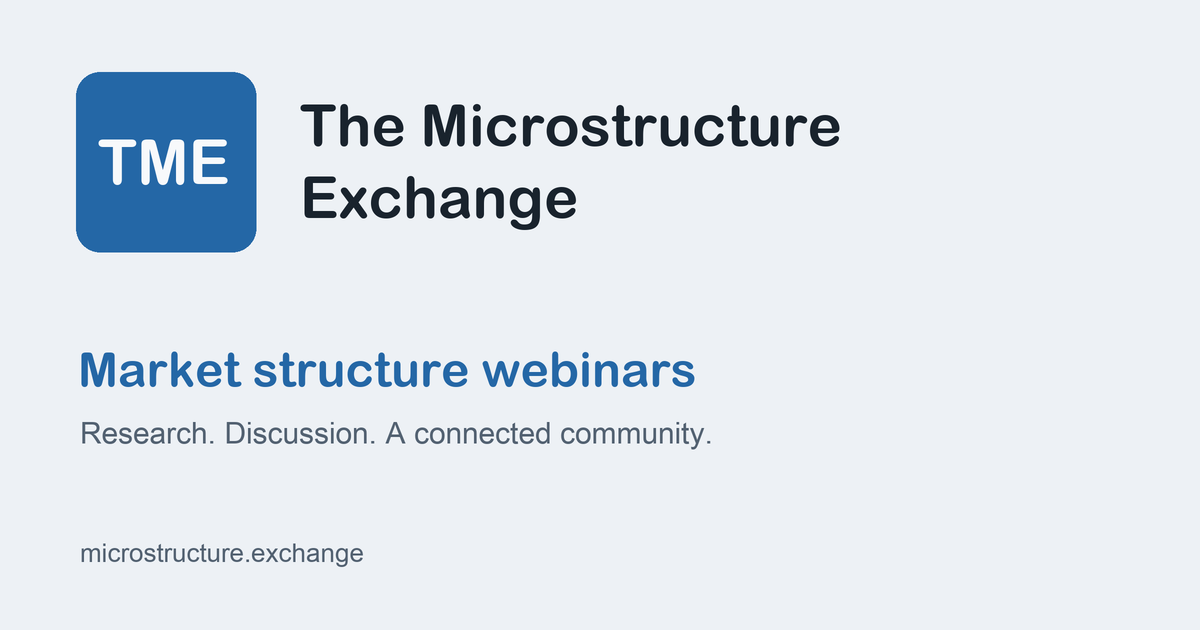
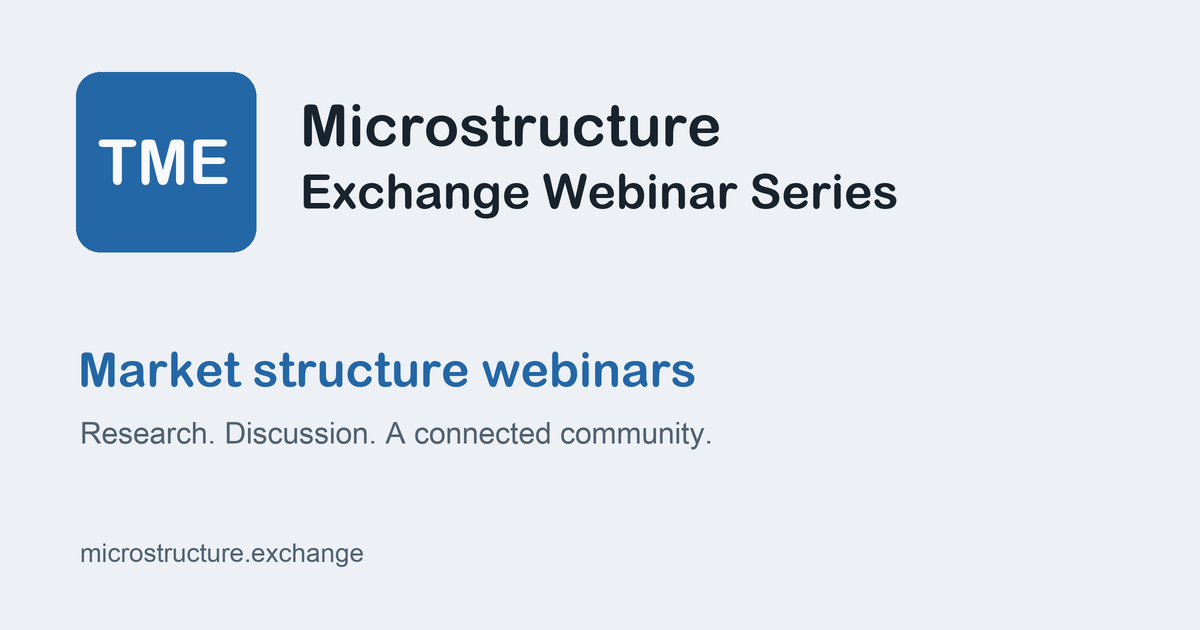
Clarify webinar series branding on sharing cards

Changed region(s): [[0.2467, 0.2714, 0.7708, 0.3619], [0.2467, 0.1508, 0.7092, 0.2413]]

diff --git a/talks/2026-09-29.html b/talks/2026-09-29.html
@@ -5,7 +5,7 @@
 <meta property="og:title" content="Fayçal Drissi | TME | The Viability of Blockchain Markets under Discrete Clearing and Paid Priority">
 <meta property="og:description" content="September 29, 2026 at 11:00 AM EDT. The Viability of Blockchain Markets under Discrete Clearing and Paid Priority. Authors: Fayçal Drissi; Agostino Capponi; Alvaro Cartea. The Microstructure Exchange.">
 <meta property="og:url" content="https://microstructure.exchange/talks/2026-09-29">
-<meta property="og:image" content="https://microstructure.exchange/talks/2026-09-29-d12fa49050.png">
+<meta property="og:image" content="https://microstructure.exchange/talks/2026-09-29-bc0784de2c.png">
 <meta property="og:image:width" content="1200">
 <meta property="og:image:height" content="630">
 <meta property="og:image:type" content="image/png">
@@ -13,7 +13,7 @@
 <meta name="twitter:card" content="summary_large_image">
 <meta name="twitter:title" content="Fayçal Drissi | TME | The Viability of Blockchain Markets under Discrete Clearing and Paid Priority">
 <meta name="twitter:description" content="September 29, 2026 at 11:00 AM EDT. The Viability of Blockchain Markets under Discrete Clearing and Paid Priority. Authors: Fayçal Drissi; Agostino Capponi; Alvaro Cartea. The Microstructure Exchange.">
-<meta name="twitter:image" content="https://microstructure.exchange/talks/2026-09-29-d12fa49050.png">
+<meta name="twitter:image" content="https://microstructure.exchange/talks/2026-09-29-bc0784de2c.png">
 <meta name="twitter:image:alt" content="Fayçal Drissi: The Viability of Blockchain Markets under Discrete Clearing and Paid Priority. September 29, 2026 at 11:00 AM EDT.">
       <link rel="icon" href="/favicon.svg" type="image/svg+xml"><link rel="stylesheet" href="/site.css">
       <link href="https://fonts.googleapis.com/css2?family=Nunito+Sans:wght@300;400;500;600;700;800&amp;display=swap" rel="stylesheet">

diff --git a/talks/2026-10-27.html b/talks/2026-10-27.html
@@ -5,7 +5,7 @@
 <meta property="og:title" content="Vincent Grégoire | TME | Who Wins and Who Loses in Prediction Markets: Evidence from Polymarket">
 <meta property="og:description" content="October 27, 2026 at 11:00 AM EDT. Who Wins and Who Loses in Prediction Markets: Evidence from Polymarket. Authors: Vincent Grégoire; Charles Martineau; Pat Akey; Nicolas Harvie. The Microstructure Exchange.">
 <meta property="og:url" content="https://microstructure.exchange/talks/2026-10-27">
-<meta property="og:image" content="https://microstructure.exchange/talks/2026-10-27-93449a0af7.png">
+<meta property="og:image" content="https://microstructure.exchange/talks/2026-10-27-deae53c74b.png">
 <meta property="og:image:width" content="1200">
 <meta property="og:image:height" content="630">
 <meta property="og:image:type" content="image/png">
@@ -13,7 +13,7 @@
 <meta name="twitter:card" content="summary_large_image">
 <meta name="twitter:title" content="Vincent Grégoire | TME | Who Wins and Who Loses in Prediction Markets: Evidence from Polymarket">
 <meta name="twitter:description" content="October 27, 2026 at 11:00 AM EDT. Who Wins and Who Loses in Prediction Markets: Evidence from Polymarket. Authors: Vincent Grégoire; Charles Martineau; Pat Akey; Nicolas Harvie. The Microstructure Exchange.">
-<meta name="twitter:image" content="https://microstructure.exchange/talks/2026-10-27-93449a0af7.png">
+<meta name="twitter:image" content="https://microstructure.exchange/talks/2026-10-27-deae53c74b.png">
 <meta name="twitter:image:alt" content="Vincent Grégoire: Who Wins and Who Loses in Prediction Markets: Evidence from Polymarket. October 27, 2026 at 11:00 AM EDT.">
       <link rel="icon" href="/favicon.svg" type="image/svg+xml"><link rel="stylesheet" href="/site.css">
       <link href="https://fonts.googleapis.com/css2?family=Nunito+Sans:wght@300;400;500;600;700;800&amp;display=swap" rel="stylesheet">

diff --git a/talks/2026-11-24.html b/talks/2026-11-24.html
@@ -5,7 +5,7 @@
 <meta property="og:title" content="Albert Menkveld | TME | Does News Trading Crowd Out Value Trading? Evidence from a Structural Estimation">
 <meta property="og:description" content="November 24, 2026 at 11:00 AM EST. Does News Trading Crowd Out Value Trading? Evidence from a Structural Estimation. Authors: Albert J. Menkveld; Lucas Saru. The Microstructure Exchange.">
 <meta property="og:url" content="https://microstructure.exchange/talks/2026-11-24">
-<meta property="og:image" content="https://microstructure.exchange/talks/2026-11-24-bc96979f96.png">
+<meta property="og:image" content="https://microstructure.exchange/talks/2026-11-24-442f5807b1.png">
 <meta property="og:image:width" content="1200">
 <meta property="og:image:height" content="630">
 <meta property="og:image:type" content="image/png">
@@ -13,7 +13,7 @@
 <meta name="twitter:card" content="summary_large_image">
 <meta name="twitter:title" content="Albert Menkveld | TME | Does News Trading Crowd Out Value Trading? Evidence from a Structural Estimation">
 <meta name="twitter:description" content="November 24, 2026 at 11:00 AM EST. Does News Trading Crowd Out Value Trading? Evidence from a Structural Estimation. Authors: Albert J. Menkveld; Lucas Saru. The Microstructure Exchange.">
-<meta name="twitter:image" content="https://microstructure.exchange/talks/2026-11-24-bc96979f96.png">
+<meta name="twitter:image" content="https://microstructure.exchange/talks/2026-11-24-442f5807b1.png">
 <meta name="twitter:image:alt" content="Albert Menkveld: Does News Trading Crowd Out Value Trading? Evidence from a Structural Estimation. November 24, 2026 at 11:00 AM EST.">
       <link rel="icon" href="/favicon.svg" type="image/svg+xml"><link rel="stylesheet" href="/site.css">
       <link href="https://fonts.googleapis.com/css2?family=Nunito+Sans:wght@300;400;500;600;700;800&amp;display=swap" rel="stylesheet">

diff --git a/talks/2026-10-13.html b/talks/2026-10-13.html
@@ -5,7 +5,7 @@
 <meta property="og:title" content="Luca Galati | TME | Not Dead Yet: Options Trading Floors">
 <meta property="og:description" content="October 13, 2026 at 11:00 AM EDT. Not Dead Yet: Options Trading Floors. Authors: Luca Galati; Terrence Hendershott; Saad Ali Khan; Ryan Riordan. The Microstructure Exchange.">
 <meta property="og:url" content="https://microstructure.exchange/talks/2026-10-13">
-<meta property="og:image" content="https://microstructure.exchange/talks/2026-10-13-e63abc8ef9.png">
+<meta property="og:image" content="https://microstructure.exchange/talks/2026-10-13-fc6998d5d2.png">
 <meta property="og:image:width" content="1200">
 <meta property="og:image:height" content="630">
 <meta property="og:image:type" content="image/png">
@@ -13,7 +13,7 @@
 <meta name="twitter:card" content="summary_large_image">
 <meta name="twitter:title" content="Luca Galati | TME | Not Dead Yet: Options Trading Floors">
 <meta name="twitter:description" content="October 13, 2026 at 11:00 AM EDT. Not Dead Yet: Options Trading Floors. Authors: Luca Galati; Terrence Hendershott; Saad Ali Khan; Ryan Riordan. The Microstructure Exchange.">
-<meta name="twitter:image" content="https://microstructure.exchange/talks/2026-10-13-e63abc8ef9.png">
+<meta name="twitter:image" content="https://microstructure.exchange/talks/2026-10-13-fc6998d5d2.png">
 <meta name="twitter:image:alt" content="Luca Galati: Not Dead Yet: Options Trading Floors. October 13, 2026 at 11:00 AM EDT.">
       <link rel="icon" href="/favicon.svg" type="image/svg+xml"><link rel="stylesheet" href="/site.css">
       <link href="https://fonts.googleapis.com/css2?family=Nunito+Sans:wght@300;400;500;600;700;800&amp;display=swap" rel="stylesheet">

diff --git a/talks/2026-09-15.html b/talks/2026-09-15.html
@@ -5,7 +5,7 @@
 <meta property="og:title" content="Farshid Abdi | TME | Overnight Corporate Bond Trading">
 <meta property="og:description" content="September 15, 2026 at 11:00 AM EDT. Overnight Corporate Bond Trading. Authors: Farshid Abdi; Marco Rossi; Botao Wu. The Microstructure Exchange.">
 <meta property="og:url" content="https://microstructure.exchange/talks/2026-09-15">
-<meta property="og:image" content="https://microstructure.exchange/talks/2026-09-15-1db8ab5b47.png">
+<meta property="og:image" content="https://microstructure.exchange/talks/2026-09-15-4df35067e4.png">
 <meta property="og:image:width" content="1200">
 <meta property="og:image:height" content="630">
 <meta property="og:image:type" content="image/png">
@@ -13,7 +13,7 @@
 <meta name="twitter:card" content="summary_large_image">
 <meta name="twitter:title" content="Farshid Abdi | TME | Overnight Corporate Bond Trading">
 <meta name="twitter:description" content="September 15, 2026 at 11:00 AM EDT. Overnight Corporate Bond Trading. Authors: Farshid Abdi; Marco Rossi; Botao Wu. The Microstructure Exchange.">
-<meta name="twitter:image" content="https://microstructure.exchange/talks/2026-09-15-1db8ab5b47.png">
+<meta name="twitter:image" content="https://microstructure.exchange/talks/2026-09-15-4df35067e4.png">
 <meta name="twitter:image:alt" content="Farshid Abdi: Overnight Corporate Bond Trading. September 15, 2026 at 11:00 AM EDT.">
       <link rel="icon" href="/favicon.svg" type="image/svg+xml"><link rel="stylesheet" href="/site.css">
       <link href="https://fonts.googleapis.com/css2?family=Nunito+Sans:wght@300;400;500;600;700;800&amp;display=swap" rel="stylesheet">

diff --git a/talks/2026-12-08.html b/talks/2026-12-08.html
@@ -5,7 +5,7 @@
 <meta property="og:title" content="Chaojun Wang | TME | Shadow Discounts">
 <meta property="og:description" content="December 8, 2026 at 11:00 AM EST. Shadow Discounts. Authors: Chaojun Wang; Tomy Lee; Isacco Lotti; Florian Nagler; Giorgio Ottonello. The Microstructure Exchange.">
 <meta property="og:url" content="https://microstructure.exchange/talks/2026-12-08">
-<meta property="og:image" content="https://microstructure.exchange/talks/2026-12-08-7de8e31812.png">
+<meta property="og:image" content="https://microstructure.exchange/talks/2026-12-08-bb2975d2ec.png">
 <meta property="og:image:width" content="1200">
 <meta property="og:image:height" content="630">
 <meta property="og:image:type" content="image/png">
@@ -13,7 +13,7 @@
 <meta name="twitter:card" content="summary_large_image">
 <meta name="twitter:title" content="Chaojun Wang | TME | Shadow Discounts">
 <meta name="twitter:description" content="December 8, 2026 at 11:00 AM EST. Shadow Discounts. Authors: Chaojun Wang; Tomy Lee; Isacco Lotti; Florian Nagler; Giorgio Ottonello. The Microstructure Exchange.">
-<meta name="twitter:image" content="https://microstructure.exchange/talks/2026-12-08-7de8e31812.png">
+<meta name="twitter:image" content="https://microstructure.exchange/talks/2026-12-08-bb2975d2ec.png">
 <meta name="twitter:image:alt" content="Chaojun Wang: Shadow Discounts. December 8, 2026 at 11:00 AM EST.">
       <link rel="icon" href="/favicon.svg" type="image/svg+xml"><link rel="stylesheet" href="/site.css">
       <link href="https://fonts.googleapis.com/css2?family=Nunito+Sans:wght@300;400;500;600;700;800&amp;display=swap" rel="stylesheet">

diff --git a/talks/2026-11-10.html b/talks/2026-11-10.html
@@ -5,7 +5,7 @@
 <meta property="og:title" content="Thierry Foucault | TME | The Price of Exchange Data">
 <meta property="og:description" content="November 10, 2026 at 11:00 AM EST. The Price of Exchange Data. Authors: Thierry Foucault; Vincent Maurin. The Microstructure Exchange.">
 <meta property="og:url" content="https://microstructure.exchange/talks/2026-11-10">
-<meta property="og:image" content="https://microstructure.exchange/talks/2026-11-10-0d950bef68.png">
+<meta property="og:image" content="https://microstructure.exchange/talks/2026-11-10-38ae9f6243.png">
 <meta property="og:image:width" content="1200">
 <meta property="og:image:height" content="630">
 <meta property="og:image:type" content="image/png">
@@ -13,7 +13,7 @@
 <meta name="twitter:card" content="summary_large_image">
 <meta name="twitter:title" content="Thierry Foucault | TME | The Price of Exchange Data">
 <meta name="twitter:description" content="November 10, 2026 at 11:00 AM EST. The Price of Exchange Data. Authors: Thierry Foucault; Vincent Maurin. The Microstructure Exchange.">
-<meta name="twitter:image" content="https://microstructure.exchange/talks/2026-11-10-0d950bef68.png">
+<meta name="twitter:image" content="https://microstructure.exchange/talks/2026-11-10-38ae9f6243.png">
 <meta name="twitter:image:alt" content="Thierry Foucault: The Price of Exchange Data. November 10, 2026 at 11:00 AM EST.">
       <link rel="icon" href="/favicon.svg" type="image/svg+xml"><link rel="stylesheet" href="/site.css">
       <link href="https://fonts.googleapis.com/css2?family=Nunito+Sans:wght@300;400;500;600;700;800&amp;display=swap" rel="stylesheet">

diff --git a/past-talks.html b/past-talks.html
@@ -16,12 +16,12 @@
   <meta property="og:image:type" content="image/png">
   <meta property="og:image:width" content="1200">
   <meta property="og:image:height" content="630">
-  <meta property="og:image:alt" content="TME — The Microstructure Exchange. Market structure webinars.">
+  <meta property="og:image:alt" content="TME — Microstructure Exchange Webinar Series. Market structure webinars.">
   <meta name="twitter:card" content="summary_large_image">
   <meta name="twitter:title" content="Past Talks | The Microstructure Exchange">
   <meta name="twitter:description" content="Past TME webinar talks with papers, recordings, and slides where available.">
   <meta name="twitter:image" content="https://microstructure.exchange/social-preview.png">
-  <meta name="twitter:image:alt" content="TME — The Microstructure Exchange. Market structure webinars.">
+  <meta name="twitter:image:alt" content="TME — Microstructure Exchange Webinar Series. Market structure webinars.">
   <!-- End social preview -->
   <link rel="preconnect" href="https://fonts.googleapis.com">
   <link rel="preconnect" href="https://fonts.gstatic.com" crossorigin>

diff --git a/award.html b/award.html
@@ -16,12 +16,12 @@
   <meta property="og:image:type" content="image/png">
   <meta property="og:image:width" content="1200">
   <meta property="og:image:height" content="630">
-  <meta property="og:image:alt" content="TME — The Microstructure Exchange. Market structure webinars.">
+  <meta property="og:image:alt" content="TME — Microstructure Exchange Webinar Series. Market structure webinars.">
   <meta name="twitter:card" content="summary_large_image">
   <meta name="twitter:title" content="WRDS-TME Prize | The Microstructure Exchange">
   <meta name="twitter:description" content="Best paper award information for The Microstructure Exchange.">
   <meta name="twitter:image" content="https://microstructure.exchange/social-preview.png">
-  <meta name="twitter:image:alt" content="TME — The Microstructure Exchange. Market structure webinars.">
+  <meta name="twitter:image:alt" content="TME — Microstructure Exchange Webinar Series. Market structure webinars.">
   <!-- End social preview -->
   <link rel="preconnect" href="https://fonts.googleapis.com">
   <link rel="preconnect" href="https://fonts.gstatic.com" crossorigin>

diff --git a/index.html b/index.html
@@ -16,12 +16,12 @@
   <meta property="og:image:type" content="image/png">
   <meta property="og:image:width" content="1200">
   <meta property="og:image:height" content="630">
-  <meta property="og:image:alt" content="TME — The Microstructure Exchange. Market structure webinars.">
+  <meta property="og:image:alt" content="TME — Microstructure Exchange Webinar Series. Market structure webinars.">
   <meta name="twitter:card" content="summary_large_image">
   <meta name="twitter:title" content="The Microstructure Exchange">
   <meta name="twitter:description" content="A virtual academic webinar series for market microstructure research.">
   <meta name="twitter:image" content="https://microstructure.exchange/social-preview.png">
-  <meta name="twitter:image:alt" content="TME — The Microstructure Exchange. Market structure webinars.">
+  <meta name="twitter:image:alt" content="TME — Microstructure Exchange Webinar Series. Market structure webinars.">
   <!-- End social preview -->
   <link rel="preconnect" href="https://fonts.googleapis.com">
   <link rel="preconnect" href="https://fonts.gstatic.com" crossorigin>

diff --git a/about.html b/about.html
@@ -16,12 +16,12 @@
   <meta property="og:image:type" content="image/png">
   <meta property="og:image:width" content="1200">
   <meta property="og:image:height" content="630">
-  <meta property="og:image:alt" content="TME — The Microstructure Exchange. Market structure webinars.">
+  <meta property="og:image:alt" content="TME — Microstructure Exchange Webinar Series. Market structure webinars.">
   <meta name="twitter:card" content="summary_large_image">
   <meta name="twitter:title" content="About | The Microstructure Exchange">
   <meta name="twitter:description" content="About The Microstructure Exchange and its organizers.">
   <meta name="twitter:image" content="https://microstructure.exchange/social-preview.png">
-  <meta name="twitter:image:alt" content="TME — The Microstructure Exchange. Market structure webinars.">
+  <meta name="twitter:image:alt" content="TME — Microstructure Exchange Webinar Series. Market structure webinars.">
   <!-- End social preview -->
   <link rel="preconnect" href="https://fonts.googleapis.com">
   <link rel="preconnect" href="https://fonts.gstatic.com" crossorigin>

diff --git a/resources.html b/resources.html
@@ -16,12 +16,12 @@
   <meta property="og:image:type" content="image/png">
   <meta property="og:image:width" content="1200">
   <meta property="og:image:height" content="630">
-  <meta property="og:image:alt" content="TME — The Microstructure Exchange. Market structure webinars.">
+  <meta property="og:image:alt" content="TME — Microstructure Exchange Webinar Series. Market structure webinars.">
   <meta name="twitter:card" content="summary_large_image">
   <meta name="twitter:title" content="Resources | The Microstructure Exchange">
   <meta name="twitter:description" content="Resources for market microstructure researchers.">
   <meta name="twitter:image" content="https://microstructure.exchange/social-preview.png">
-  <meta name="twitter:image:alt" content="TME — The Microstructure Exchange. Market structure webinars.">
+  <meta name="twitter:image:alt" content="TME — Microstructure Exchange Webinar Series. Market structure webinars.">
   <!-- End social preview -->
   <link rel="preconnect" href="https://fonts.googleapis.com">
   <link rel="preconnect" href="https://fonts.gstatic.com" crossorigin>
